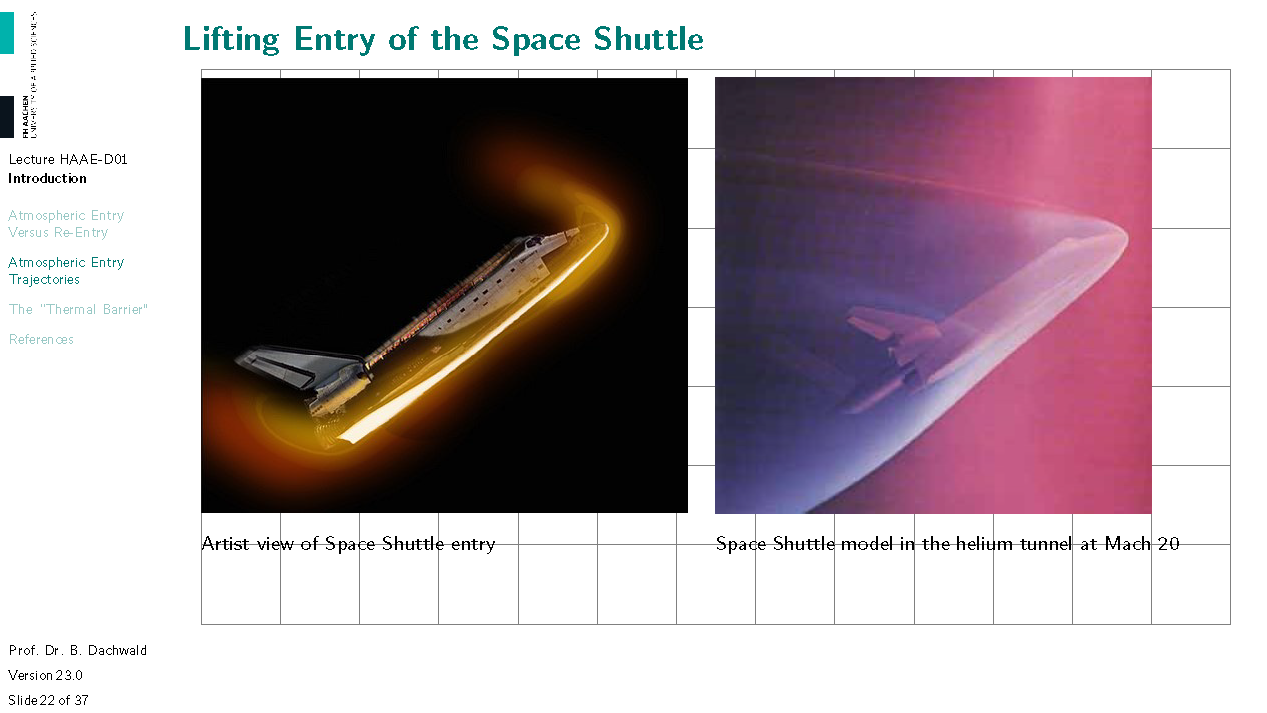
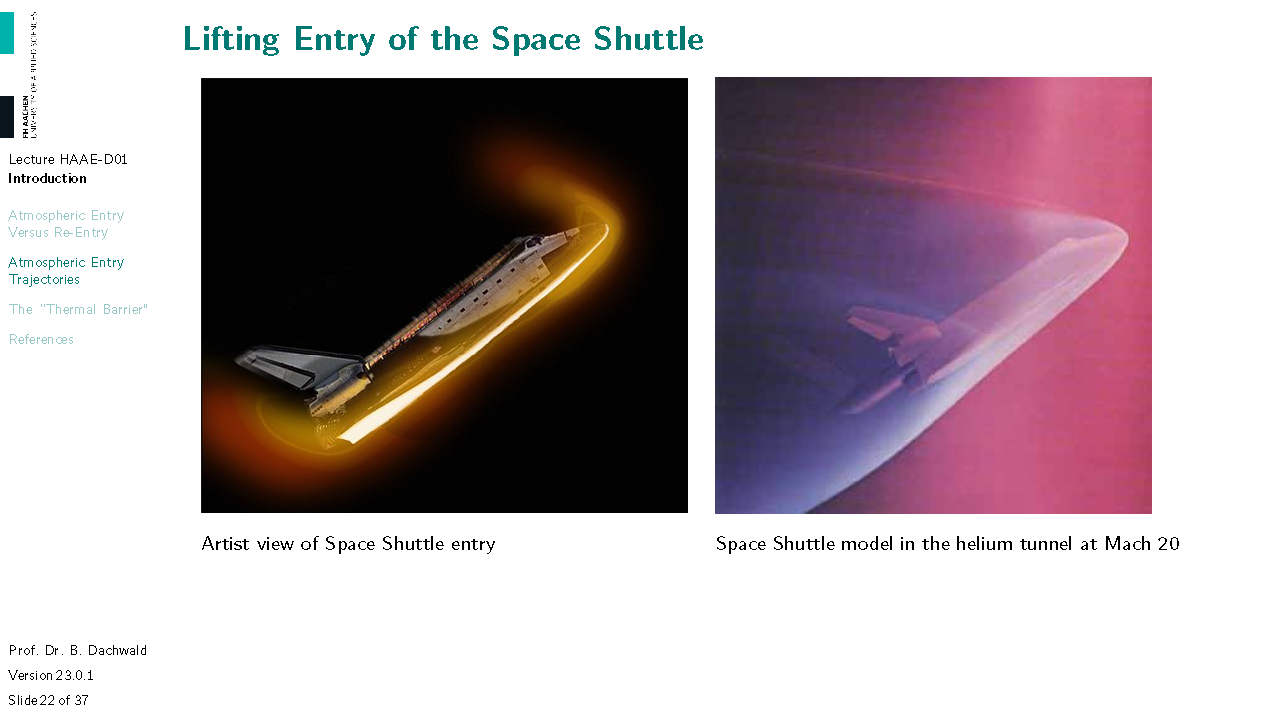
HAAE-D01 Handout v23.0.1

diff --git a/HAAE-D01_Handout.md b/HAAE-D01_Handout.md
@@ -194,3 +194,7 @@ The diagram above depicts the shock-layer temperature over the entry velocity. I
 ![](figures/haae-d01_intro_Seite_36.png)
 
 You do not have to get and read the references on this slide. However, it is mandatory to cite the sources, from which you use the material (and especially images) in your own work. Therefore, I have done it. If your professional life leads you in this direction, however, you find here a collection of books you may wish to get and read.
+
+![](figures/haae-d01_intro_Seite_37.png)
+
+Please note that I only exchange slides that have changes. Therefore, unchanged slides may show an older version number.
